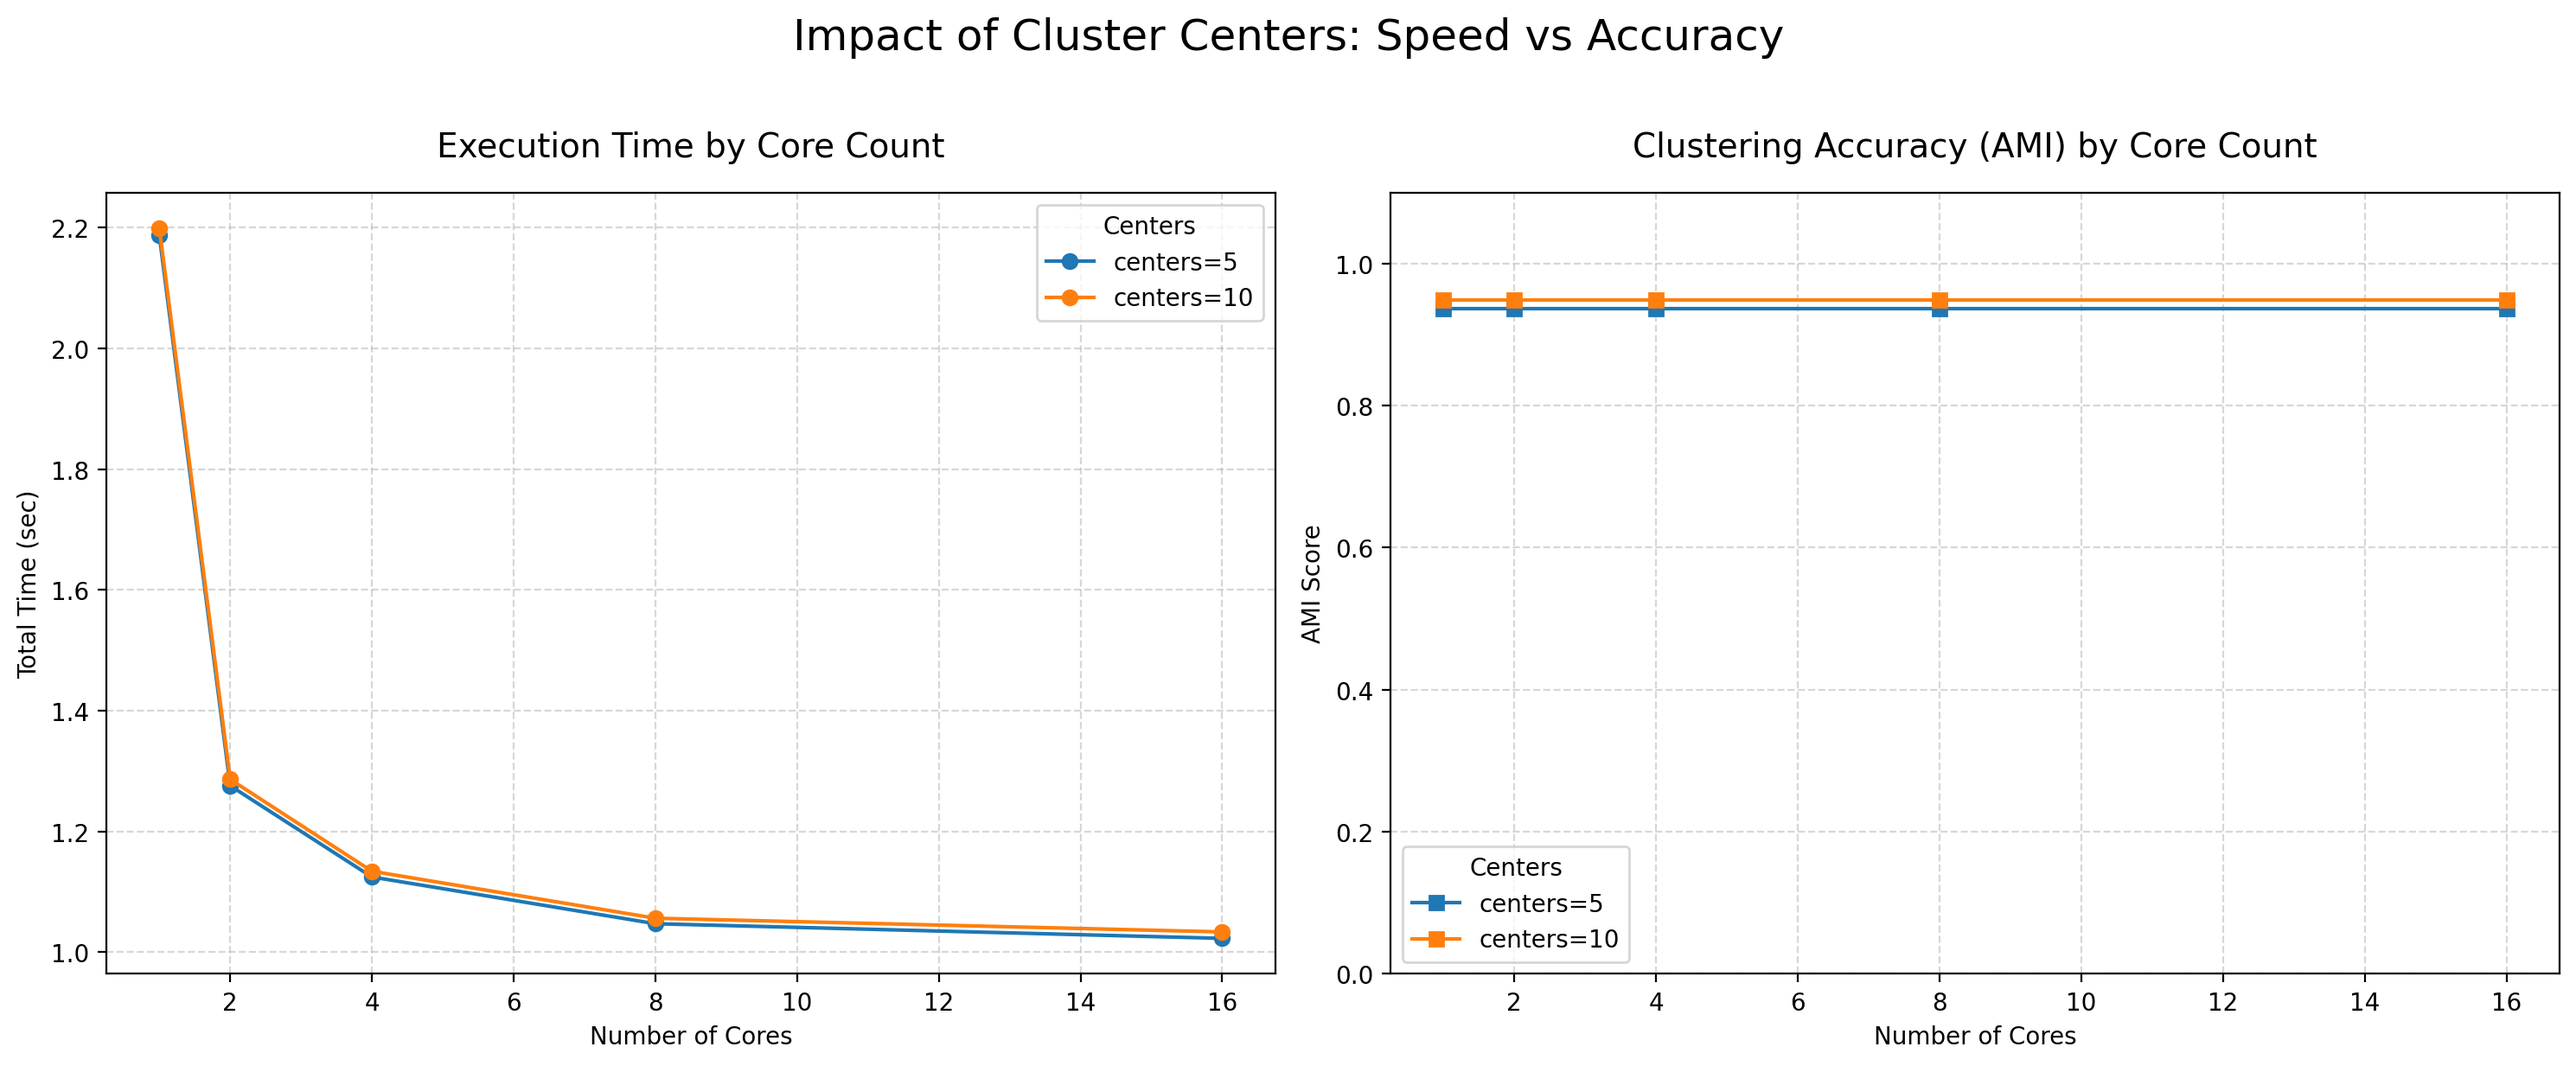
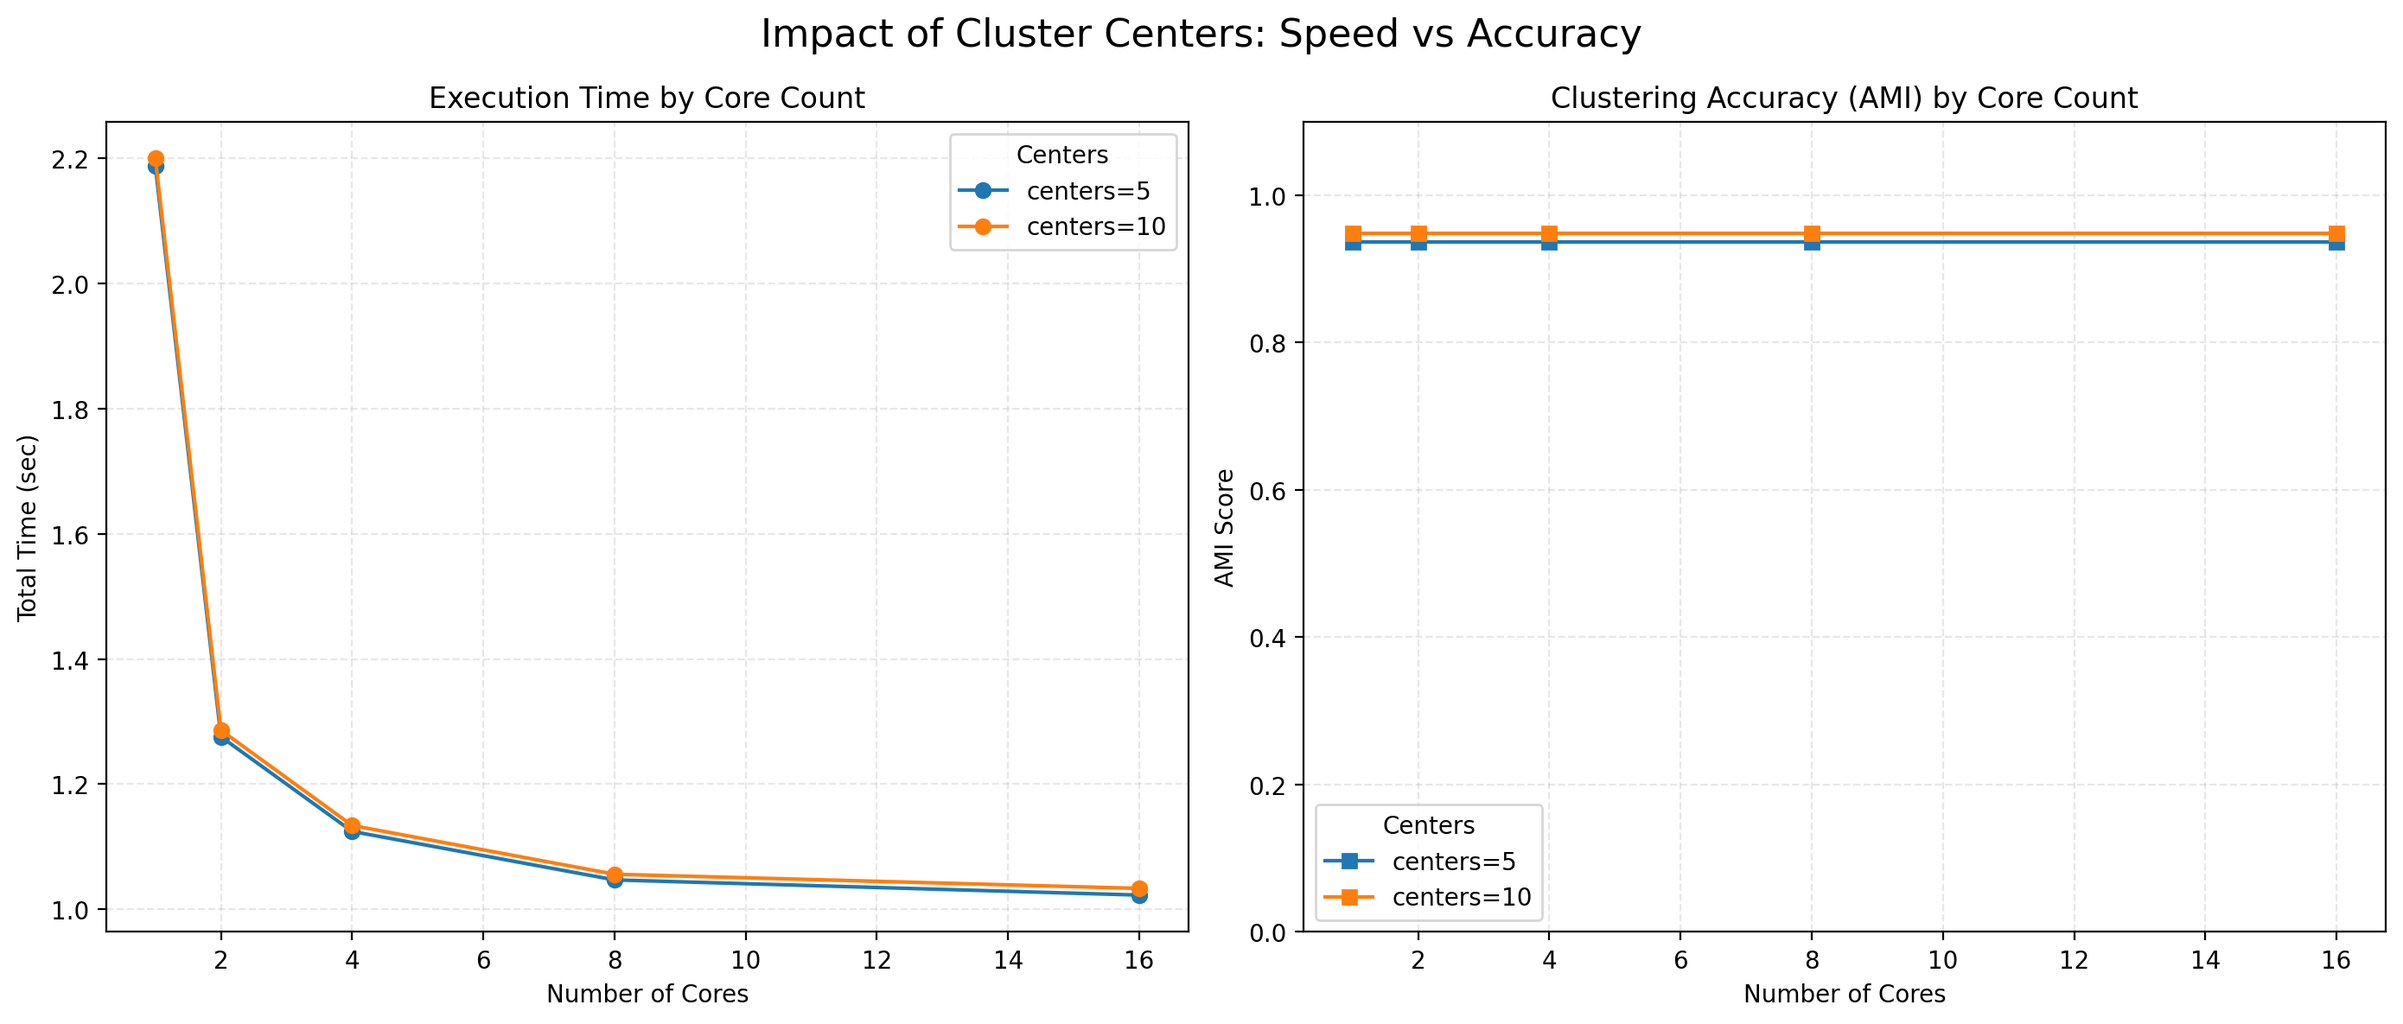
update plots

diff --git a/plot_results.py b/plot_results.py
@@ -3,6 +3,16 @@ from pathlib import Path
 import pandas as pd
 import matplotlib.pyplot as plt
 
+# Global Plot Style - 모든 그래프의 외형을 비슷하게 맞춤
+plt.rcParams.update({
+    'font.size': 10,
+    'axes.grid': True,
+    'grid.alpha': 0.3,
+    'grid.linestyle': '--',
+    'legend.frameon': True,
+    'figure.figsize': (10, 6)
+})
+
 # Utility
 RESULTS_DIR = Path("results")
 FIG_DIR = RESULTS_DIR / "figures"
@@ -85,9 +95,9 @@ def plot_parallel_performance(df, outpath, method_name="parallel_sdoclust"):
         ax1.plot(data["cores"], data["speedup"], marker='o', label=f"splits={int(s)}")
         ax2.plot(data["cores"], data["efficiency"], marker='s', label=f"splits={int(s)}")
     
-    ax1.set_title("Speedup vs Number of Cores"), ax1.legend(title="Splits"), ax1.grid(True, alpha=0.3)
-    ax2.set_title("Efficiency vs Number of Cores"), ax2.set_ylim(0, 1.1), ax2.legend(title="Splits"), ax2.grid(True, alpha=0.3)
-    fig.suptitle(f"Parallel Performance Analysis: {method_name}", fontsize=18, y=0.98)
+    ax1.set_title("Speedup vs Number of Cores"), ax1.set_xlabel("Cores"), ax1.set_ylabel("Speedup"), ax1.legend(title="Splits")
+    ax2.set_title("Efficiency vs Number of Cores"), ax2.set_xlabel("Cores"), ax2.set_ylabel("Efficiency"), ax2.set_ylim(0, 1.1), ax2.legend(title="Splits")
+    fig.suptitle(f"Parallel Performance Analysis: {method_name}", fontsize=16, y=0.98)
     plt.tight_layout(rect=[0, 0, 1, 1])
     plt.savefig(outpath, dpi=200, bbox_inches='tight')
     plt.close()
@@ -101,35 +111,22 @@ def plot_centers_analysis(df, outpath):
         "total": "mean", 
         "ami": "mean"
     })
-    fig, (ax1, ax2) = plt.subplots(1, 2, figsize=(15, 6))
+    fig, (ax1, ax2) = plt.subplots(1, 2, figsize=(14, 6))
 
     center_vals = sorted(agg["centers"].unique())
 
     for c in center_vals:
         data = agg[agg["centers"] == c]
-        
         ax1.plot(data["cores"], data["total"], marker='o', label=f"centers={int(c)}")
         ax2.plot(data["cores"], data["ami"], marker='s', label=f"centers={int(c)}")
 
-    ax1.set_title("Execution Time by Core Count", fontsize=14, pad=15)
-    ax1.set_xlabel("Number of Cores")
-    ax1.set_ylabel("Total Time (sec)")
-    ax1.grid(True, linestyle='--', alpha=0.5)
-    ax1.legend(title="Centers")
+    ax1.set_title("Execution Time by Core Count"), ax1.set_xlabel("Number of Cores"), ax1.set_ylabel("Total Time (sec)"), ax1.legend(title="Centers")
+    ax2.set_title("Clustering Accuracy (AMI) by Core Count"), ax2.set_xlabel("Number of Cores"), ax2.set_ylabel("AMI Score"), ax2.set_ylim(0, 1.1), ax2.legend(title="Centers")
 
-    ax2.set_title("Clustering Accuracy (AMI) by Core Count", fontsize=14, pad=15)
-    ax2.set_xlabel("Number of Cores")
-    ax2.set_ylabel("AMI Score")
-    ax2.set_ylim(0, 1.1)  # 정확도는 0~1 사이 고정
-    ax2.grid(True, linestyle='--', alpha=0.5)
-    ax2.legend(title="Centers")
-
-    fig.suptitle("Impact of Cluster Centers: Speed vs Accuracy", fontsize=18, y=1.02)
-    plt.tight_layout()
-    
+    fig.suptitle("Impact of Cluster Centers: Speed vs Accuracy", fontsize=16, y=0.98)
+    plt.tight_layout(rect=[0, 0, 1, 1])
     plt.savefig(outpath, dpi=200, bbox_inches='tight')
     plt.close()
-    print(f"Saved: {outpath}")
 
 # Compares the drop in accuracy between algorithms as noise_frac increases
 def plot_full_robustness_comparison(df, outpath):
@@ -139,11 +136,12 @@ def plot_full_robustness_comparison(df, outpath):
     sub["method_label"] = sub["method"].map(methods_map)
     agg = sub.groupby(["method_label", "noise_frac"], as_index=False)["ami"].mean()
 
-    plt.figure(figsize=(10, 6.5))
+    plt.figure(figsize=(10, 6))
     for label, data in agg.groupby("method_label"):
         plt.plot(data["noise_frac"], data["ami"], label=label, marker='o')
     plt.title("Clustering Robustness: AMI Score by Noise Fraction")
-    plt.xlabel("Noise Fraction"), plt.ylabel("AMI Score"), plt.ylim(0.4, 1.05), plt.grid(True, alpha=0.3), plt.legend()
+    plt.xlabel("Noise Fraction"), plt.ylabel("AMI Score"), plt.ylim(0.4, 1.05), plt.legend(title="Algorithms")
+    plt.tight_layout()
     plt.savefig(outpath, dpi=200, bbox_inches='tight')
     plt.close()
 
@@ -158,7 +156,8 @@ def plot_algorithm_time_series(df, outpath, x_axis="cores"):
         agg = data.groupby(x_axis)["total"].mean().sort_index()
         plt.plot(agg.index, agg.values, marker='o', label=label, linewidth=2)
     plt.title(f"Execution Time Comparison by {x_axis.capitalize()}")
-    plt.xlabel(x_axis.capitalize()), plt.ylabel("Total Time (sec)"), plt.grid(True, alpha=0.3), plt.legend()
+    plt.xlabel(x_axis.capitalize()), plt.ylabel("Total Time (sec)"), plt.legend(title="Algorithms")
+    plt.tight_layout()
     plt.savefig(outpath, dpi=200, bbox_inches='tight')
     plt.close()
 
